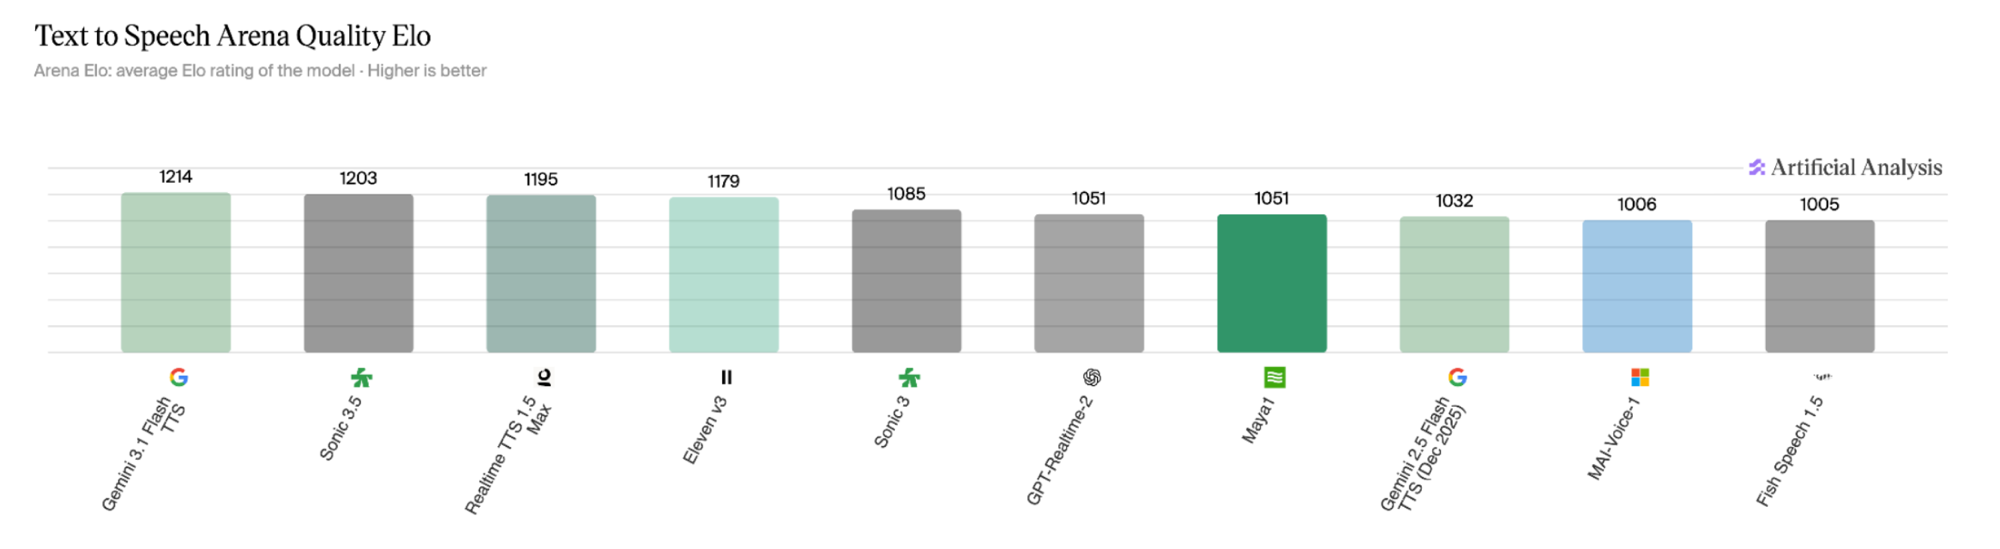
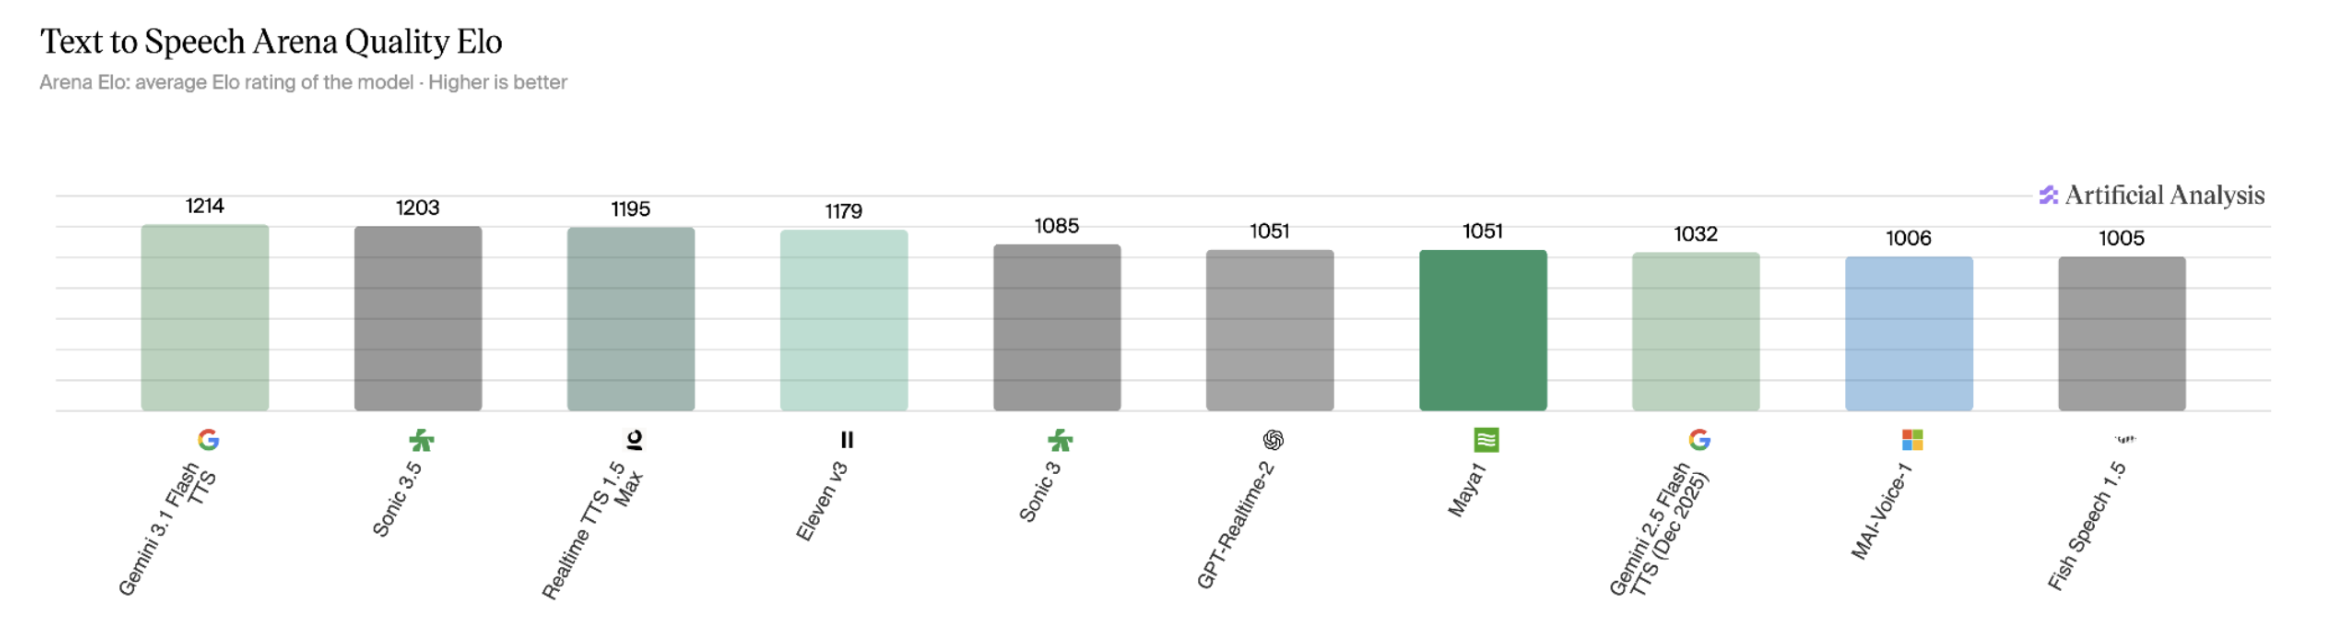
Redesign product roadmap as models/consumer/enterprise swimlane

diff --git a/index.html b/index.html
@@ -225,6 +225,24 @@
   .mitem p { font-size:clamp(.83rem,1.05vw,.97rem); color:var(--ink-soft); line-height:1.35; }
   .mitem .ev { font-size:clamp(.8rem,1vw,.92rem); color:var(--blue); font-weight:700; margin-top:.3rem; }
   .funnelc { font-size:.7rem; font-weight:700; color:var(--ink-faint); text-transform:uppercase; letter-spacing:.08em; margin:.35rem 0 .85rem; }
+  /* product roadmap — swimlane (models / consumer / enterprise × now / next / later) */
+  .rmap { display:grid; grid-template-columns:max-content repeat(3,1fr); gap:.7rem .9rem; margin-top:1.7rem; align-items:stretch; }
+  .rmap .colh { display:flex; align-items:baseline; gap:.55rem; padding:0 .2rem .2rem; }
+  .rmap .colh .ct { font-size:clamp(.86rem,1.15vw,1.05rem); font-weight:700; color:var(--ink); letter-spacing:-0.01em; }
+  .rmap .colh .cs { font-size:.7rem; font-weight:700; text-transform:uppercase; letter-spacing:.07em; color:var(--ink-faint); }
+  .rmap .colh.now .cs { color:#4E7818; } .rmap .colh.next .cs { color:var(--blue); }
+  .rmap .lane { display:flex; flex-direction:column; justify-content:center; padding:.2rem .9rem .2rem 0; border-right:1px solid var(--line); }
+  .rmap .lane .ln1 { font-size:clamp(1rem,1.35vw,1.25rem); font-weight:700; color:var(--ink); letter-spacing:-0.01em; }
+  .rmap .lane .ln2 { font-size:.72rem; font-weight:600; color:var(--ink-faint); margin-top:.2rem; max-width:15ch; line-height:1.25; }
+  .rmap .lane.engine .ln1 { color:var(--blue); }
+  .rcell { background:#fff; border:1px solid var(--line); border-left:3px solid var(--line); border-radius:10px; padding:.75rem .85rem; font-size:clamp(.8rem,1.02vw,.95rem); color:var(--ink-soft); line-height:1.34; font-weight:500; box-shadow:0 4px 14px -10px rgba(2,31,68,.2); display:flex; align-items:center; }
+  .rcell b { color:var(--ink); font-weight:700; } .rcell .em { color:var(--blue); font-weight:700; }
+  .rcell.now { border-left-color:#4E7818; }
+  .rcell.next { border-left-color:var(--blue); background:var(--accent-wash); border-color:#cfe0f7; }
+  .rcell.later { border-left-color:var(--ink-faint); background:rgba(3,81,175,.02); }
+  .rfoot { margin-top:1.5rem; display:flex; align-items:center; gap:.8rem; font-size:clamp(.92rem,1.2vw,1.12rem); color:var(--ink-soft); font-weight:600; line-height:1.4; }
+  .rfoot .rk { flex:none; font-size:.7rem; font-weight:700; text-transform:uppercase; letter-spacing:.1em; color:var(--blue); background:var(--accent-wash); border:1px solid #cfe0f7; border-radius:9999px; padding:.4rem .9rem; }
+  .rfoot b { color:var(--blue); font-weight:700; }
   /* training architecture pipeline */
   .pipe { display:flex; align-items:center; justify-content:center; gap:.8vw; margin-top:1.4rem; }
   .pstep { background:#fff; border:1px solid var(--line); border-radius:10px; padding:.65rem 1rem; font-weight:700; font-size:clamp(.8rem,1.02vw,.98rem); color:var(--ink); text-align:center; line-height:1.2; box-shadow:0 4px 14px -10px rgba(2,31,68,.2); }
@@ -595,11 +613,31 @@
   <section class="slide">
     <div class="eyebrow">What's next</div>
     <h2>Product roadmap</h2>
-    <p class="apx-lead">Two model lines — <b>open source</b> for developer adoption, <b>flagship / pro</b> for revenue — converging on full-duplex speech-to-speech.</p>
-    <div class="apx-cards">
-      <div class="apx-card"><h4>Open-source "Maya 3" family</h4><ul><li>Maya1 (emotive TTS), Veena (Indian TTS), Maya Listen (ASR)</li><li>Apache-2.0 — drives developer adoption</li><li>500K+ model downloads to date</li></ul></div>
-      <div class="apx-card"><h4>Flagship / Pro series</h4><ul><li>Hosted, highest-quality models</li><li>Full-duplex: think, listen &amp; speak at once</li><li>The monetized, revenue line</li></ul></div>
-      <div class="apx-card"><h4>Reach &amp; efficiency</h4><ul><li>31 → 40+ languages &amp; dialects</li><li>Quantize for 3–4× lower inference cost</li><li>On-device / edge deployment</li></ul></div>
+    <p class="apx-lead">One model engine, <b>two motions</b> — a consumer app and an enterprise funnel — advancing in lock-step over the next 12 months.</p>
+    <div class="rmap">
+      <div class="corner"></div>
+      <div class="colh now"><span class="ct">Now</span><span class="cs">Shipped</span></div>
+      <div class="colh next"><span class="ct">Next</span><span class="cs">~6 months</span></div>
+      <div class="colh later"><span class="ct">Later</span><span class="cs">12 months →</span></div>
+
+      <div class="lane engine"><span class="ln1">Models</span><span class="ln2">the engine — powers both motions</span></div>
+      <div class="rcell now"><span><b>Maya 1, Listen &amp; Veena</b> — open Apache-2.0, 31 languages, frontier Elo, 500K downloads</span></div>
+      <div class="rcell next"><span><b>Maya 3</b> — full-duplex <span class="em">speech-to-speech</span> (think, listen &amp; speak at once) + hosted Flagship / Pro tier</span></div>
+      <div class="rcell later"><span><b>40+ languages</b> &amp; dialects · quantized <span class="em">3–4× cheaper</span> · on-device / edge</span></div>
+
+      <div class="lane"><span class="ln1">Consumer</span><span class="ln2">the app — data flywheel + B2C revenue</span></div>
+      <div class="rcell now"><span><b>3M downloads · 50K DAU</b> — loved across relationships, faith, shopping &amp; learning</span></div>
+      <div class="rcell next"><span><b>Retention</b>: proactive Maya, memory &amp; personas, richer first session → <span class="em">50K → 500K DAU</span></span></div>
+      <div class="rcell later"><span><b>Consumer monetization</b> — subscriptions, then voice-native ads &amp; affiliate commerce</span></div>
+
+      <div class="lane"><span class="ln1">Enterprise</span><span class="ln2">the funnel — B2B revenue</span></div>
+      <div class="rcell now"><span><b>Open weights on Fal &amp; Hugging Face</b> = top of funnel · inbound from conglomerates &amp; startups</span></div>
+      <div class="rcell next"><span><b>Premium API</b> — hosted &amp; managed models · convert inbound into <span class="em">first paid pilots</span></span></div>
+      <div class="rcell later"><span><b>On-prem &amp; sovereign licences</b> · vertical solutions across India · SEA · MENA</span></div>
+    </div>
+    <div class="rfoot">
+      <span class="rk">Flywheel</span>
+      <span>Every consumer conversation and every enterprise call <b>trains the next model</b> — one engine, two motions, compounding.</span>
     </div>
   </section>
 